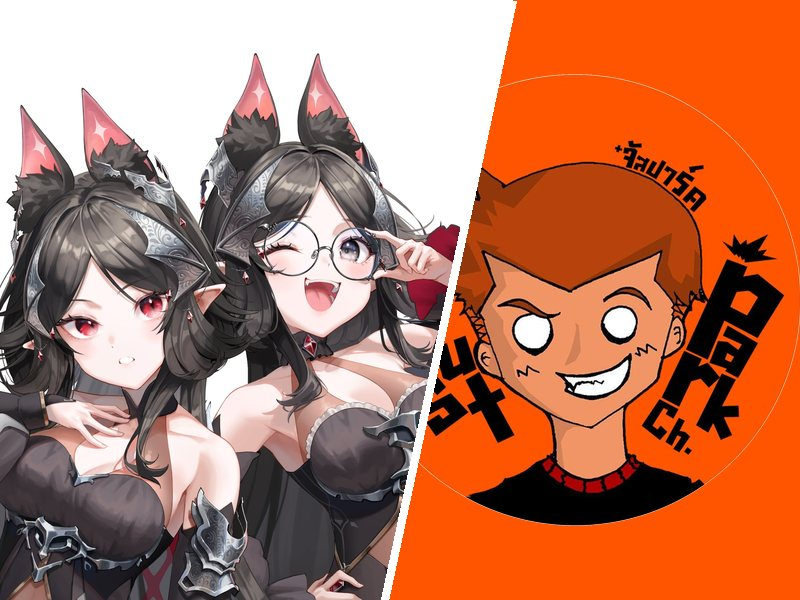
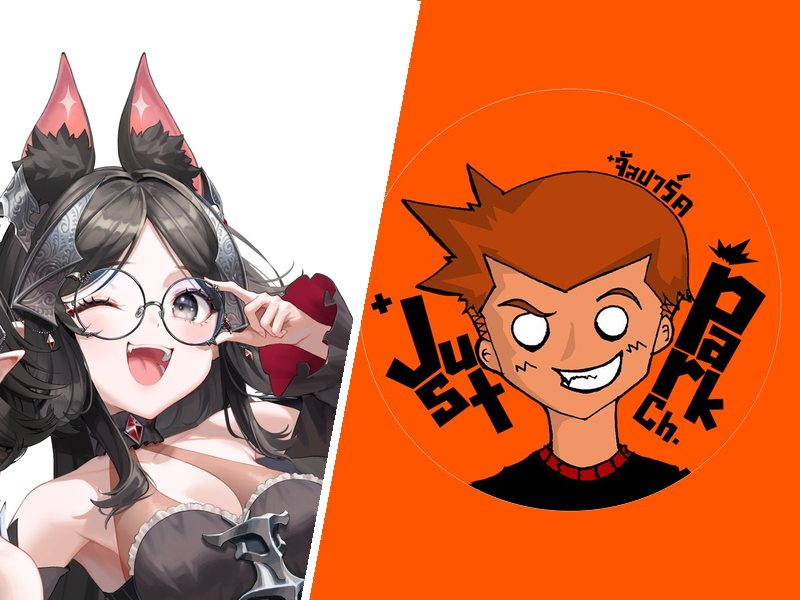
Recrop talent card and stream image
Claude-Session: https://claude.ai/code/session_0182ETGqkY6VZC2ACV9rE9Mb

diff --git a/index.html b/index.html
@@ -385,7 +385,7 @@ footer .wrap{display:flex;flex-wrap:wrap;justify-content:space-between;gap:10px;
       </div>
       <a class="btn ghost" href="#services" data-t="hero.btn"></a>
     </div>
-    <div class="hero-strip"><img class="strip-img" src="event-cafe.jpg" alt="Event cafe"><img class="strip-img" src="merch-2.jpg" alt="Merchandise"><img class="strip-img" src="work-vtuber-stream.jpg" alt="VTuber game stream" style="object-position:center 30%"><div class="ph"></div></div>
+    <div class="hero-strip"><img class="strip-img" src="event-cafe.jpg" alt="Event cafe"><img class="strip-img" src="merch-2.jpg" alt="Merchandise"><img class="strip-img" src="work-vtuber-stream.jpg" alt="VTuber game stream" style="object-position:center top"><div class="ph"></div></div>
   </section>
 
   <div class="wrap"><div class="tiles" id="tiles"></div></div>
